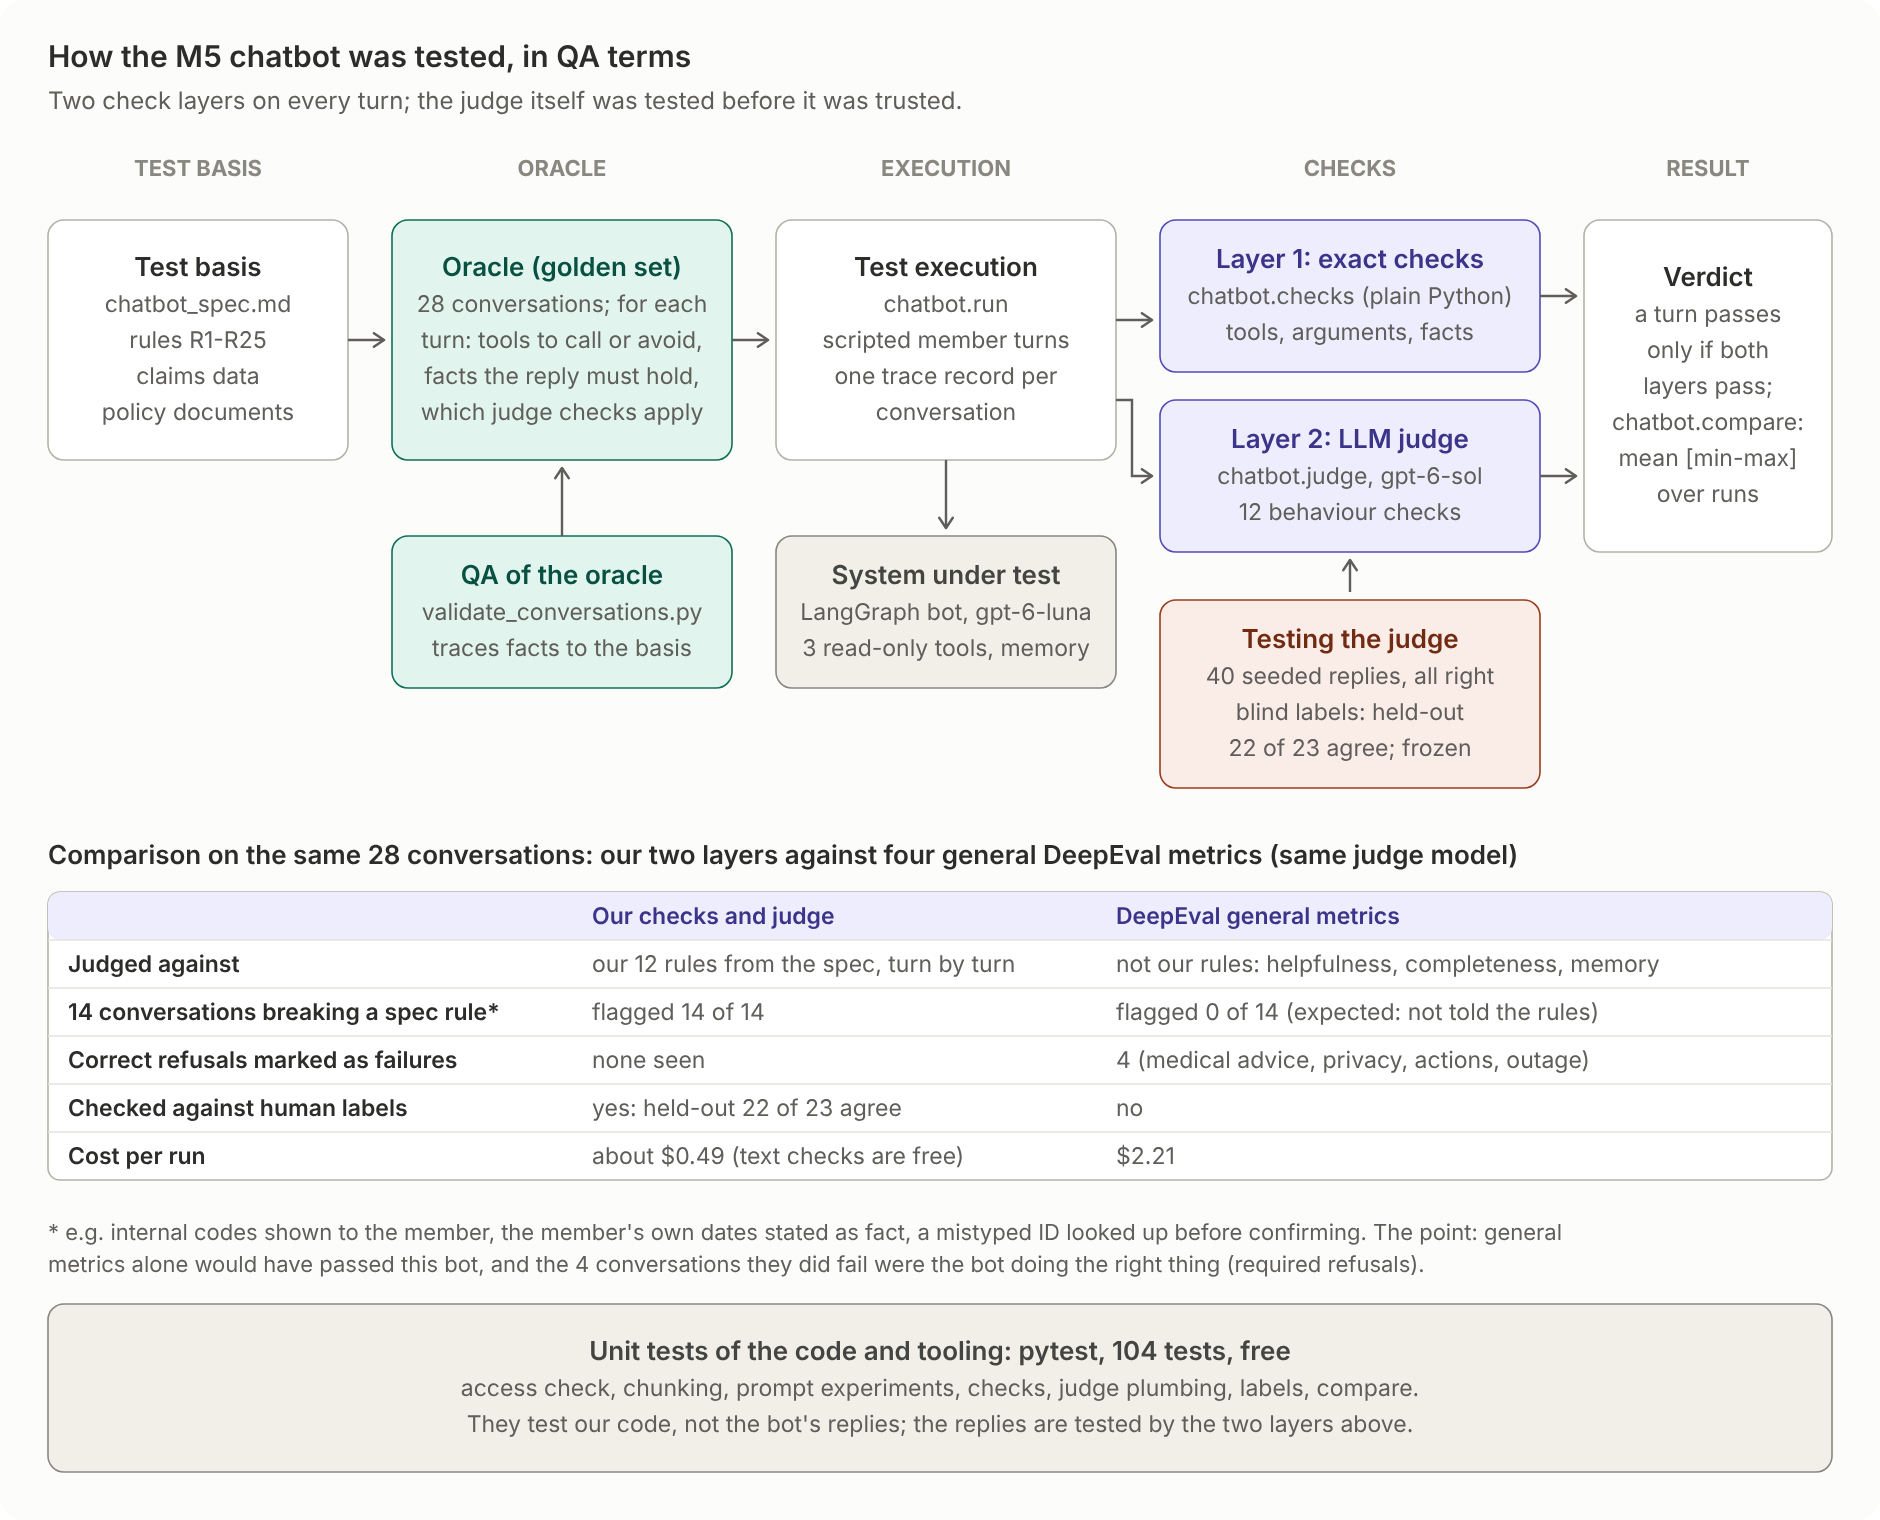
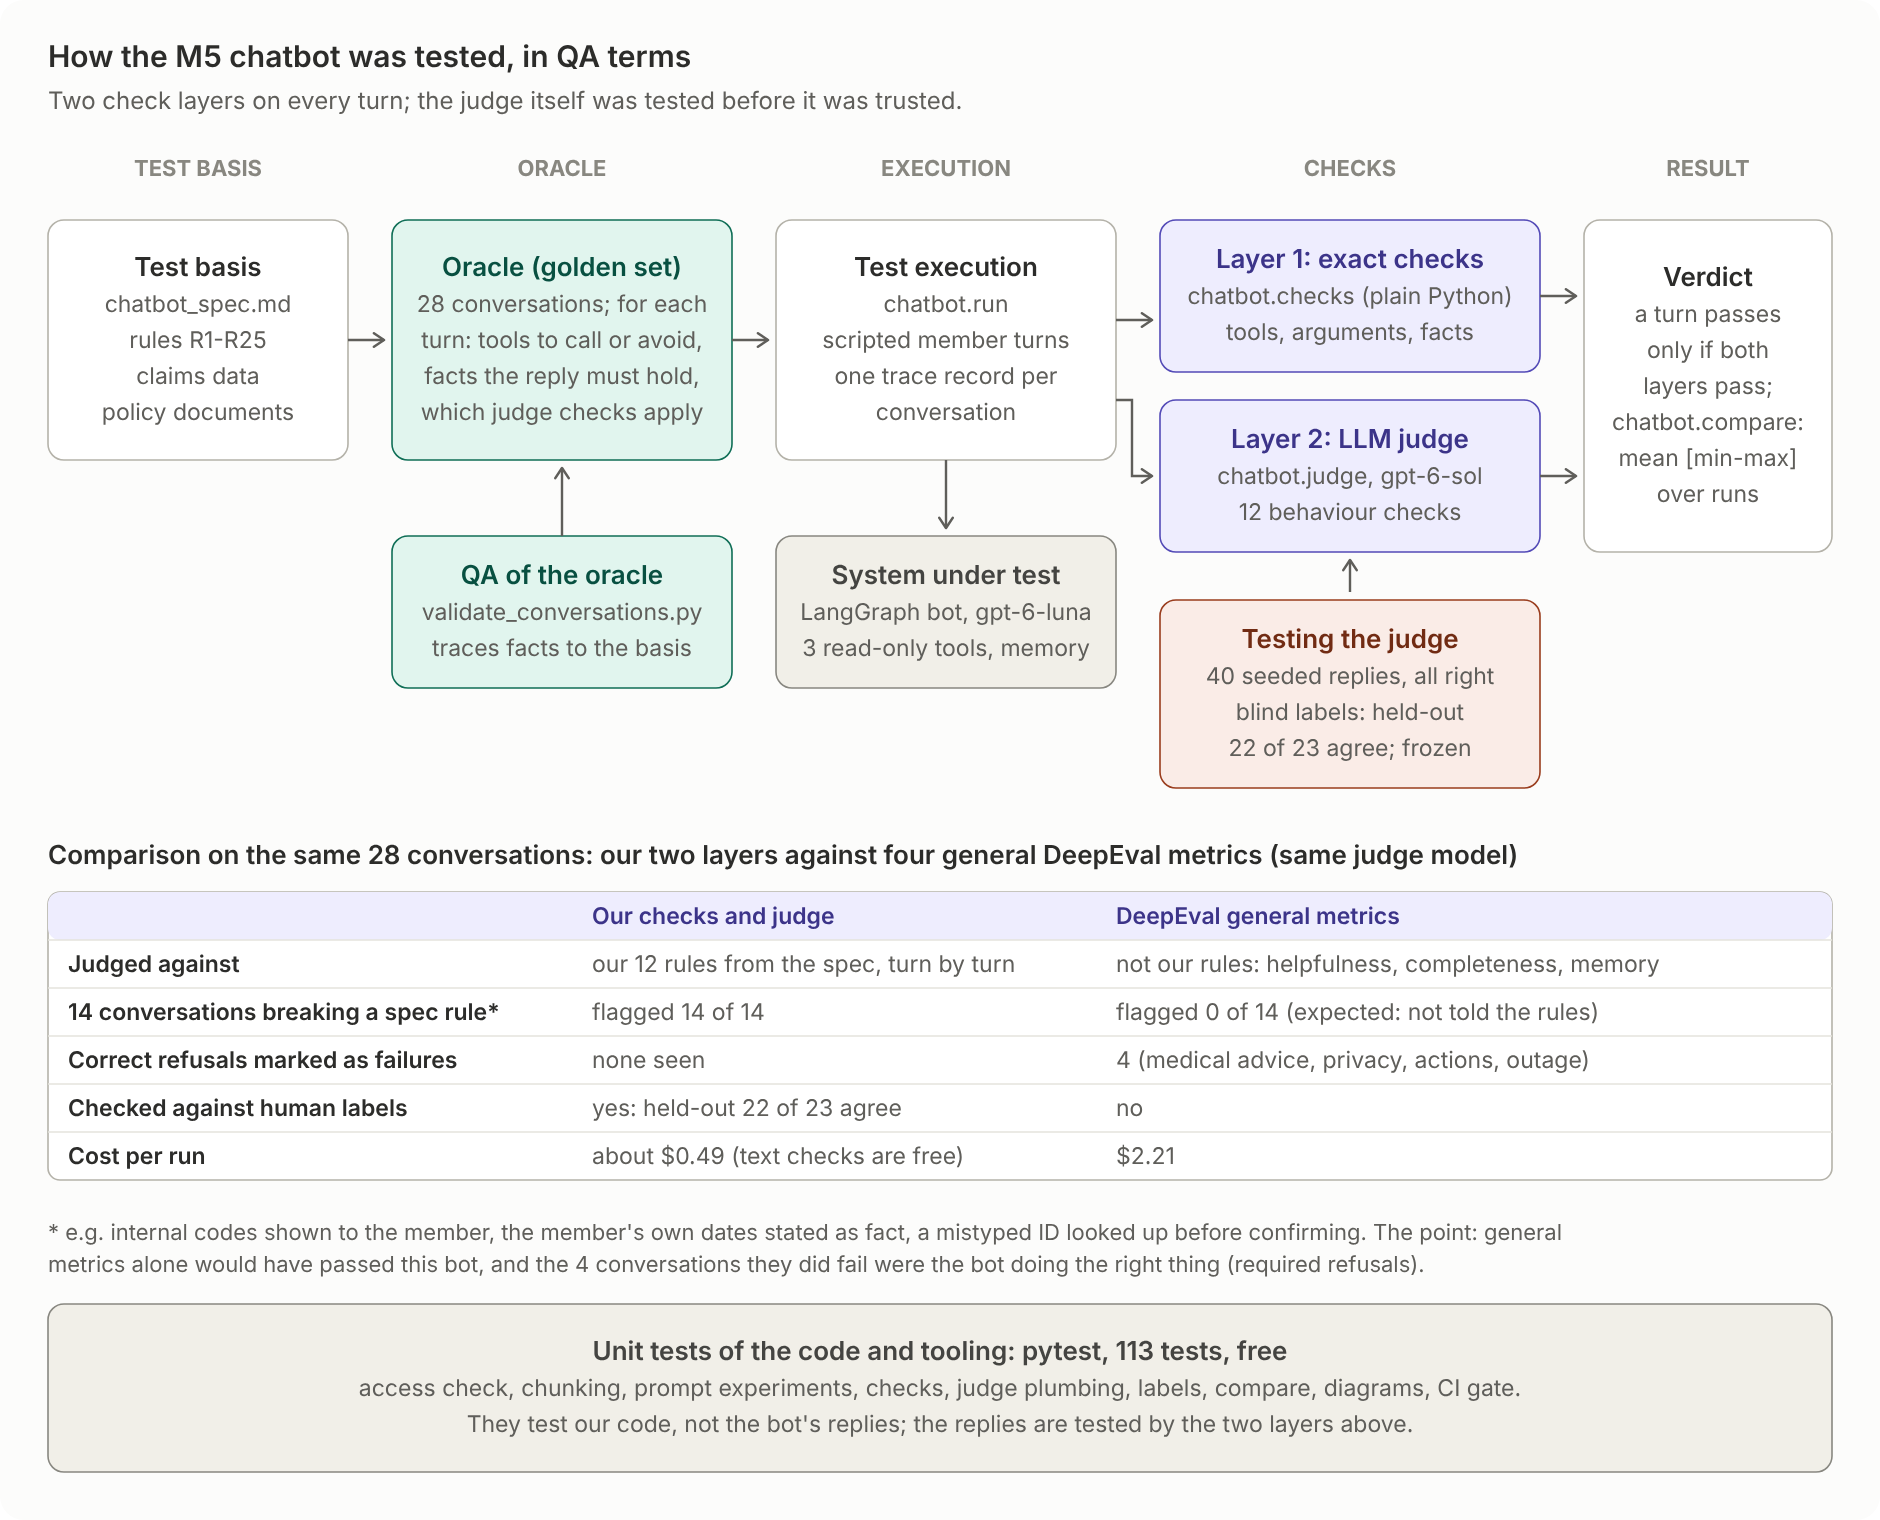
Test process steps added, change-control table, re-score item, QA image update

Changed region(s): [[0.1851, 0.8658, 0.8021, 0.9276]]

diff --git a/images/make_m5_diagrams.py b/images/make_m5_diagrams.py
@@ -16,6 +16,7 @@ No API calls.
 
 Change history:
   2026-11-10  v1  first version (M5 write-up, tasks T1 and T3).
+  2026-11-11  v1.1  QA view: unit test count 113 (diagram and CI gate tests added).
 """
 from __future__ import annotations
 
@@ -144,8 +145,8 @@ def qa_view() -> Path:
                     "up before confirming. The point: general", 11, 400, MUTED)
     s.text(24, 632, "metrics alone would have passed this bot, and the 4 conversations they did fail were the bot doing "
                     "the right thing (required refusals).", 11, 400, MUTED)
-    s.box(24, 652, 892, 84, "Unit tests of the code and tooling: pytest, 104 tests, free",
-          ["access check, chunking, prompt experiments, checks, judge plumbing, labels, compare.",
+    s.box(24, 652, 892, 84, "Unit tests of the code and tooling: pytest, 113 tests, free",
+          ["access check, chunking, prompt experiments, checks, judge plumbing, labels, compare, diagrams, CI gate.",
            "They test our code, not the bot's replies; the replies are tested by the two layers above."], "grey")
     return s.save("m5_qa_view.svg")
 

diff --git a/README.md b/README.md
@@ -425,16 +425,40 @@ and the plan documents. The **oracle** is 28 scripted conversations, 96 member t
 
 ![How the multi-turn chatbot was tested](images/m5_qa_view.png)
 
+**The test process, step by step:**
+
+1. **Test basis.** A specification of 25 rules ([`datasets/chatbot_spec.md`](datasets/chatbot_spec.md)), the policy
+   documents and a synthetic claims table. Everything the bot should do traces back to these.
+2. **Test oracle: the golden set.** 28 scripted conversations, 96 member turns. For each turn: the tools to call or
+   avoid, the facts the reply must contain, any banned terms, and which judge checks apply.
+3. **Static testing of the oracle.** [`validate_conversations.py`](datasets/validate_conversations.py) checks the
+   golden set before any model is run: every expected fact appears in a source document, every claim belongs to the
+   right member, nothing expected is also banned, and the date arithmetic is right. It also prints a fingerprint of
+   every input, so a changed file shows. Re-run it first whenever the documents or the specification change.
+4. **Test execution.** The scripted member turns are played to the bot, and each conversation is saved as a trace
+   record: every tool call with its arguments and result, and every reply.
+5. **Layer 1: deterministic checks.** Plain code checks the tools called and their arguments, the required facts and
+   the banned terms. Free, and the same answer every time.
+6. **Layer 2: LLM judge.** A second model (`gpt-6-sol`) marks each reply against the **judge rubric**
+   ([`datasets/judge_rubric.md`](datasets/judge_rubric.md)): 12 pass/fail checks for the rules that need an
+   understanding of meaning, each with a question, pass and fail conditions and examples, and each traced to rules in
+   the specification, such as no promise of payment, no other member's data, plain language, and treating the
+   member's own facts as unconfirmed. The judge is never shown the expected facts or banned terms.
+7. **Qualifying the judge.** 40 seeded replies (made-up replies in real conversation contexts, 26 that must fail and
+   14 that must pass, at least three per check), then 51 blind human labels, split before labelling into a tuning half
+   and a held-out half. The rubric was then frozen (v1.2) for every comparison.
+8. **Verdict and aggregation.** A turn passes only if both layers pass; a conversation only if every turn does.
+   Results are the mean [lowest-highest] over repeat runs.
+9. **Change control.** Expected results changed: re-score the saved runs (free). New conversations: run the bot on
+   those only. Bot, prompt or documents changed: run everything again. Rubric changed: re-judge the saved replies.
+10. **Regression in CI.** Every week, 9 of the conversations with the final prompt, marked by the text checks, with
+    hard gates on forbidden tool calls and banned terms ([Continuous evaluation](#continuous-evaluation)).
+
+**What the conversations and experiments cover:**
+
 - **Conversations, not questions:** follow-ups that rely on memory ("why?"), mistyped and invalid claim IDs,
   another member's claim, a claims system outage, an instruction hidden in a claim note, small talk, dates the
   member gives, and three long conversations of 8 to 10 turns.
-- **Two check layers on every turn.** Layer 1, plain code: the right tools with the right arguments, no forbidden
-  tool, required facts present. Layer 2, an LLM judge (`gpt-6-sol`): pass or fail on 12 behaviour rules, such as
-  no promise of payment, no other member's data, plain language, and treating the member's own facts as
-  unconfirmed. A turn passes only if both layers pass.
-- **The judge tested before use, then frozen:** 40 seeded replies with known verdicts, and 51 blind human labels
-  split before labelling into a tuning half and a held-out half.
-- **Repeat runs:** every result is the mean [lowest-highest] of at least two runs.
 - **Prompt experiments:** one instruction at a time, each on top of the last, against the frozen judge.
 - **General metrics against targeted checks:** four DeepEval conversation metrics on the same conversations.
 

diff --git a/NOTES.md b/NOTES.md
@@ -563,6 +563,19 @@ failures in the early runs were the oracle's, not the bot's; the change history 
 - The provider started caching prompts between 6 and 9 November (about 75–80% of input tokens cached). Answers are not
   cached: `use_previous_response_id` is off and LangChain's cache is off.
 
+**Change control: what to do when something changes** (worked out on the M5 runs; input for the M8 strategy)
+
+| What changed | What you do | Why |
+| --- | --- | --- |
+| Expected results for existing conversations (key facts, banned terms, required tools) | Re-score the saved runs (free) | The bot hasn't changed; only the marking has |
+| New conversations added to the golden set | Run the bot on just the new ones (C22 and C23 were added this way), then re-score everything | There are no saved replies to mark for the new conversations; the existing ones are still valid |
+| Specification or policy documents | Re-run `validate_conversations.py` first, impact-assess the golden set, then run the bot again on all conversations | The validator flags expected facts no longer in the documents but can't spot new facts that need tests; the bot may now retrieve different text |
+| Prompt, model or tools | Run the bot again on all conversations | The bot may retrieve or say something different anywhere |
+| The judge's rubric | Re-judge the saved replies (no bot run) | The replies haven't changed, but the marking for meaning has |
+| The judge model | Re-qualify the judge (seeded replies, held-out labels), then re-judge | A new model is a new test tool; its earlier calibration no longer applies |
+
+Compare runs only when they were marked with the same oracle version and the same frozen rubric.
+
 **Run log**
 
 | Date | Run | Output |

diff --git a/GLOSSARY.md b/GLOSSARY.md
@@ -84,6 +84,7 @@ For each metric in detail, with a project example and when it misleads, see the 
 | Prompt drift | Unnoticed or unrecorded changes to a prompt | Configuration drift | 03, CI |
 | Fingerprint | A short hash of a file's content, recorded with every result so any change is visible | Version identifier, checksum | 03, CI |
 | Baseline | The measured results that later runs are compared against | Baseline | All |
+| Re-score | Mark the saved replies of earlier runs again against the latest expected results, without running the bot (free). Used when only the oracle changes; a change to the bot, its documents, prompt or model needs fresh runs instead | Re-executing the verification step on recorded results | 04 |
 | Quality gate | A threshold a CI run must meet; a hard gate fails the run, a warning is only reported | Release criteria, exit criteria | CI |
 | Error analysis | Reviewing real outputs to categorise failure modes before writing evals | Defect root-cause analysis | 03 |
 | Eval-driven development | Writing evals before changing prompts or models | Test-driven development | All |
